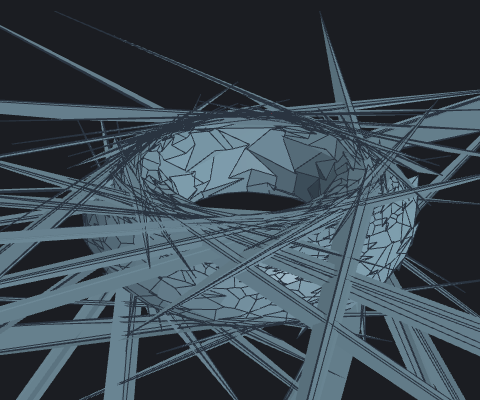
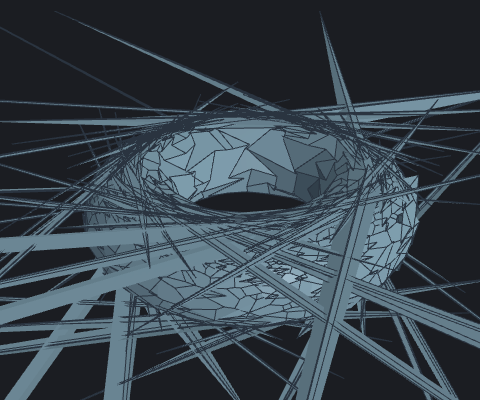
Never drop non-disc regions in Contract contour regions
Split, pinched and holed regions become faces; holes containing only steps
are erased; pieces with fewer than three junctions collapse to their shared
edge. Welding no longer leaves repeated corners, which caused most of the
holes. The viewer ear-clips faces in their plane. 0 hole edges in all 20
test runs, same maximum error.

Fixes 4b81683

Claude-Session: https://claude.ai/code/session_0141VCMnjcxwTaN2T5U2UNtN

diff --git a/recover.js b/recover.js
@@ -58,7 +58,7 @@
   // sites, signs, owner, cells: as in the viewer (cells from computePowerDiagram).
   // planes: owner -> { point, normal } (the tangent point and the unit SDF gradient).
   // lambda: pull toward the contour vertex; keeps nearly parallel planes well-posed.
-  // Returns { verts, anchors, vertOwners, polys: [{ owner, normal, verts }], badOwners, nRegions }.
+  // Returns { verts, anchors, vertOwners, polys: [{ owner, normal, verts, holes }], badOwners, nRegions, topo }.
   function recoverSurface(sites, signs, owner, cells, planes, lambda, tau = 0, trust = Infinity) {
     // 1. Contour faces (oriented from the + side), welded, each labeled with the owning region.
     const welder = makeWelder(), faces = [];
@@ -76,7 +76,10 @@
         }
         const alt = label === a ? b : a;
         if (!planes.get(label)) continue; // a sample on the surface has no tangent plane
-        faces.push({ label, alt: planes.get(alt) ? alt : label, green: a === b, vs: f.verts.map(p => welder.id(p)) });
+        // Welding can merge consecutive corners of a tiny face: drop the repeats (a u -> u edge breaks boundary walks).
+        const vs = f.verts.map(p => welder.id(p)).filter((u, k, w) => u !== w[(k + 1) % w.length]);
+        if (vs.length < 3) continue;
+        faces.push({ label, alt: planes.get(alt) ? alt : label, green: a === b, vs });
       }
     });
 
@@ -139,14 +142,85 @@
       if (!changed) break;
     }
 
-    const vLabels = welder.pts.map(() => new Set());
-    for (const F of faces) for (const u of F.vs) vLabels[u].add(F.label);
+    // 4. Topology. Every region must become faces: dropping one leaves a hole in the surface. For each
+    //    connected piece of a region, take its boundary cycles. The largest (by area in the region's
+    //    tangent plane) is the outer boundary; cycles of the same orientation are lobes pinched to it at
+    //    a vertex; cycles of the opposite orientation are holes. A hole with no own face inside contains
+    //    only steps, so it is erased (given to the region). Repeat until stable. A piece with fewer
+    //    than three junctions has no corners of its own and collapses: its one or two neighbors already
+    //    share the edge between its junctions, so dropping it leaves no hole.
+    const topo = { split0, erasedHoles: 0, collapsed: 0, pieces: 0, splitRegions: 0, pinched: 0, annuli: 0, multiArc: 0, junction4: 0 };
+    const pts = welder.pts;
+    function cycleArea(cyc, n) {
+      const a = [0, 0, 0];
+      cyc.forEach((u, k) => { const p = pts[u], q = pts[cyc[(k + 1) % cyc.length]];
+        a[0] += p[1] * q[2] - p[2] * q[1]; a[1] += p[2] * q[0] - p[0] * q[2]; a[2] += p[0] * q[1] - p[1] * q[0]; });
+      return (a[0] * n[0] + a[1] * n[1] + a[2] * n[2]) / 2;
+    }
+    let pieces, comp, vLabels;
+    function analyze() {
+      vLabels = pts.map(() => new Set());
+      for (const F of faces) for (const u of F.vs) vLabels[u].add(F.label);
+      comp = new Int32Array(faces.length).fill(-1); pieces = [];
+      faces.forEach((F, fi) => {
+        if (comp[fi] >= 0) return;
+        const P = { label: F.label, faces: [fi] }; comp[fi] = pieces.length;
+        for (let q = 0; q < P.faces.length; q++) for (const g of nbrs[P.faces[q]]) if (comp[g] < 0 && faces[g].label === F.label) { comp[g] = pieces.length; P.faces.push(g); }
+        pieces.push(P);
+      });
+      pieces.forEach((P, pi) => {
+        const out = new Map(); P.across = new Map(); // boundary half-edges u -> [v]; "u,v" -> face across
+        for (const fi of P.faces) {
+          const vs = faces[fi].vs;
+          vs.forEach((u, k) => {
+            const v = vs[(k + 1) % vs.length], tw = heFace.get(`${v},${u}`);
+            if (tw !== undefined && comp[tw] === pi) return;
+            if (!out.has(u)) out.set(u, []);
+            out.get(u).push(v); P.across.set(`${u},${v}`, tw);
+          });
+        }
+        P.pinched = [...out.values()].some(vs => vs.length > 1);
+        const cycles = [];
+        for (const [u0, vs0] of out) while (vs0.length) {
+          const cyc = []; let u = u0;
+          do { cyc.push(u); u = out.get(u)?.pop(); } while (u !== undefined && u !== u0);
+          if (u === u0) cycles.push(cyc);
+        }
+        const n = planes.get(P.label).normal, areas = cycles.map(c => cycleArea(c, n));
+        const o = areas.reduce((b, a, k) => Math.abs(a) > Math.abs(areas[b]) ? k : b, 0), sg = Math.sign(areas[o]);
+        P.outer = cycles[o] || []; P.holes = []; P.extra = [];
+        cycles.forEach((c, k) => {
+          if (k === o) return;
+          if (Math.sign(areas[k]) !== sg) { P.holes.push(c); return; }
+          const i = P.outer.findIndex(u => c.includes(u)); // splice a lobe in at a shared vertex
+          if (i < 0) { P.extra.push(c); return; }
+          const j = c.indexOf(P.outer[i]);
+          P.outer = [...P.outer.slice(0, i + 1), ...c.slice(j + 1), ...c.slice(0, j + 1), ...P.outer.slice(i + 1)];
+        });
+      });
+    }
+    for (let iter = 0; iter < 8; iter++) {
+      analyze();
+      let changed = false;
+      pieces.forEach((P, pi) => {
+        for (const h of P.holes) {
+          const seen = new Set(), st = [];
+          h.forEach((u, k) => { const f = P.across.get(`${u},${h[(k + 1) % h.length]}`); if (f !== undefined && !seen.has(f)) { seen.add(f); st.push(f); } });
+          while (st.length) for (const g of nbrs[st.pop()]) if (comp[g] !== pi && !seen.has(g)) { seen.add(g); st.push(g); }
+          if (seen.size > faces.length / 2 || [...seen].some(f => faces[f].green)) continue;
+          for (const f of seen) faces[f].label = P.label;
+          topo.erasedHoles++; changed = true;
+        }
+      });
+      if (!changed) break;
+    }
 
-    // 4. Output vertices: contour vertices where >= 3 regions meet, placed where their planes meet.
-    const outId = new Int32Array(welder.pts.length).fill(-1), verts = [], anchors = [], vertOwners = [];
+    // 5. Output vertices: contour vertices where >= 3 regions meet, placed where those regions' tangent planes meet.
+    const outId = new Int32Array(pts.length).fill(-1), verts = [], anchors = [], vertOwners = [];
     vLabels.forEach((ls, k) => {
       if (ls.size < 3) return;
-      const v = welder.pts[k];
+      if (ls.size >= 4) topo.junction4++;
+      const v = pts[k];
       // tau: exact plane intersection, truncated where the planes are dependent (qefTruncated);
       // otherwise Tikhonov regularization toward the contour vertex with weight lambda.
       const reg = tau ? 0 : lambda;
@@ -162,46 +236,29 @@
       outId[k] = verts.length; verts.push(x); anchors.push(v); vertOwners.push([...ls]);
     });
 
-    // 5. Boundary of each region: half-edges whose twin belongs to another region (or is missing).
-    const bnext = new Map(); // label -> Map(u -> [v, ...])
-    faces.forEach((F, fi) => {
-      for (let k = 0; k < F.vs.length; k++) {
-        const u = F.vs[k], v = F.vs[(k + 1) % F.vs.length], tw = heFace.get(`${v},${u}`);
-        if (tw !== undefined && faces[tw].label === F.label) continue;
-        if (!bnext.has(F.label)) bnext.set(F.label, new Map());
-        const m = bnext.get(F.label);
-        if (!m.has(u)) m.set(u, []);
-        m.get(u).push(v);
+    // 6. Faces: one per piece (several for a split region), keeping the output vertices on its
+    //    boundary; holes that contain own faces stay as holes of the face (an annulus).
+    //    Contour faces are oriented from + to −; reverse so faces face the + (outside) side.
+    const polys = [], badOwners = [], ring = c => c.map(k => outId[k]).filter(k => k >= 0).reverse();
+    const perLabel = new Map();
+    for (const P of pieces) {
+      perLabel.set(P.label, (perLabel.get(P.label) || 0) + 1);
+      const normal = planes.get(P.label).normal;
+      for (const c of [P.outer, ...P.extra]) {
+        const R = ring(c);
+        if (R.length < 3) { topo.collapsed++; continue; }
+        const holes = c === P.outer ? P.holes.map(ring).filter(H => H.length >= 3) : [];
+        if (holes.length) topo.annuli++;
+        if (P.pinched) topo.pinched++;
+        // A neighbor met along two separate arcs: the two faces share two edges.
+        const runs = c.map((u, k) => { const f = P.across.get(`${u},${c[(k + 1) % c.length]}`); return f === undefined ? -1 : faces[f].label; }), seen = new Set();
+        runs.forEach((l, k) => { if (l !== runs[(k + runs.length - 1) % runs.length]) { if (seen.has(l)) topo.multiArc++; seen.add(l); } });
+        polys.push({ owner: P.label, normal, verts: R, holes });
       }
-    });
-
-    // 6. One polygon per region: walk its boundary loop, keeping the output vertices on it.
-    //    A region that is not a disc (several loops, or a vertex visited twice) is reported instead.
-    //    topo classifies the regions that are not discs, for diagnosis (RECOVERY.md).
-    const polys = [], badOwners = [], comps = components();
-    const topo = { split0, disconnected: 0, annulus: 0, pinched: 0, fewVerts: 0, multiArc: 0, junction4: vLabels.filter(ls => ls.size >= 4).length };
-    const twinLabel = new Map(); // "u,v" boundary half-edge -> label across it
-    faces.forEach(F => F.vs.forEach((u, k) => { const v = F.vs[(k + 1) % F.vs.length], tw = heFace.get(`${v},${u}`); twinLabel.set(`${u},${v}`, tw === undefined ? -1 : faces[tw].label); }));
-    for (const [label, m] of bnext) {
-      let pinched = false;
-      for (const vs of m.values()) if (vs.length > 1) pinched = true;
-      const [start] = m.keys(), loop = [];
-      let u = start, steps = 0;
-      do { loop.push(u); u = m.get(u)?.[0]; steps++; } while (u !== undefined && u !== start && steps <= m.size);
-      if (pinched || u !== start || steps !== m.size) {
-        badOwners.push(label);
-        if (comps.get(label) > 1) topo.disconnected++; else if (pinched) topo.pinched++; else topo.annulus++;
-        continue;
-      }
-      // A neighbor met along two separate arcs of the loop: the two faces would share two edges.
-      const runs = loop.map((k, i) => twinLabel.get(`${k},${loop[(i + 1) % loop.length]}`)), seen = new Set();
-      runs.forEach((l, i) => { if (l !== runs[(i + runs.length - 1) % runs.length]) { if (seen.has(l)) topo.multiArc++; seen.add(l); } });
-      const ring = loop.map(k => outId[k]).filter(k => k >= 0);
-      if (ring.length < 3) { badOwners.push(label); topo.fewVerts++; continue; }
-      // Contour faces are oriented from + to −; flip so polygons face the + (outside) side.
-      polys.push({ owner: label, normal: planes.get(label).normal, verts: ring.reverse() });
     }
-    return { verts, anchors, vertOwners, polys, badOwners, nRegions: bnext.size, topo };
+    topo.pieces = pieces.length;
+    topo.splitRegions = [...perLabel.values()].filter(n => n > 1).length;
+    return { verts, anchors, vertOwners, polys, badOwners, nRegions: perLabel.size, topo };
   }
 
   // ---------- Extended own faces ----------

diff --git a/index.html b/index.html
@@ -488,6 +488,16 @@ function buildSurface() {
 }
 
 // Opaque, so it needs no sorting against the transparent mesh: it is drawn first and writes depth.
+// Triangulate a face given as vertex ids (outer loop and hole loops) in the plane with normal n.
+// Returns triangles as triples of vertex ids.
+function triangulateFace(outer, holes, n) {
+  const N = new THREE.Vector3(...n), U = new THREE.Vector3(Math.abs(n[0]) < 0.9 ? 1 : 0, Math.abs(n[0]) < 0.9 ? 0 : 1, 0).cross(N).normalize(), W = N.clone().cross(U);
+  const to2 = k => { const p = new THREE.Vector3(...data.recovered.verts[k]), v = new THREE.Vector2(p.dot(U), p.dot(W)); v.id = k; return v; };
+  const C = outer.map(to2), H = holes.map(h => h.map(to2));
+  const tris = THREE.ShapeUtils.triangulateShape(C, H), all = [...C, ...H.flat()]; // indexes the (possibly reordered) inputs
+  return tris.map(t => t.map(i => all[i].id));
+}
+
 function buildRecovered() {
   disposeGroup(groups.recovered);
   groups.recovered = null;
@@ -504,15 +514,17 @@ function buildRecovered() {
       for (let k = 0; k < V.length; k++) epos.push(...V[k], ...V[(k + 1) % V.length]);
     }
   } else for (const P of r.polys) {
-    const V = P.verts.map(k => r.verts[k]);
-    for (let k = 1; k + 1 < V.length; k++) { pos.push(...V[0], ...V[k], ...V[k + 1]); for (let q = 0; q < 3; q++) col.push(COL_REC.r, COL_REC.g, COL_REC.b); }
-    for (let k = 0; k < V.length; k++) epos.push(...V[k], ...V[(k + 1) % V.length]);
+    // Faces may be non-convex, pinched (a vertex visited twice) or have holes: ear-clip in their plane.
+    for (const t of triangulateFace(P.verts, P.holes || [], P.normal)) {
+      for (const k of t) { pos.push(...r.verts[k]); col.push(COL_REC.r, COL_REC.g, COL_REC.b); }
+    }
+    for (const L of [P.verts, ...(P.holes || [])]) for (let k = 0; k < L.length; k++) epos.push(...r.verts[L[k]], ...r.verts[L[(k + 1) % L.length]]);
   }
   // Holes: a directed polygon edge whose reverse is in no polygon borders a missing region.
-  const dir = new Set();
-  if (!r.clip) for (const P of r.polys) P.verts.forEach((a, k) => dir.add(`${a},${P.verts[(k + 1) % P.verts.length]}`));
-  if (!r.clip) for (const P of r.polys) P.verts.forEach((a, k) => {
-    const b = P.verts[(k + 1) % P.verts.length];
+  const loops = r.clip ? [] : r.polys.flatMap(P => [P.verts, ...(P.holes || [])]), dir = new Set();
+  for (const L of loops) L.forEach((a, k) => dir.add(`${a},${L[(k + 1) % L.length]}`));
+  for (const L of loops) L.forEach((a, k) => {
+    const b = L[(k + 1) % L.length];
     if (!dir.has(`${b},${a}`)) hole.push(...r.verts[a], ...r.verts[b]);
   });
   r.nHoleEdges = hole.length / 6;
@@ -577,8 +589,15 @@ function updateStats() {
       : data.recovered.clip ? `clipped planes: ${data.recovered.polys.length} faces, ${data.recovered.nEmpty} clipped away ` +
         `(${data.recovered.nEmptyFeature} at corners / creases)\n`
       : `recovered: ${data.recovered.polys.length} faces, ${data.recovered.verts.length} vertices, ` +
-        `${data.recovered.badOwners.length} non-disc regions, ${data.recovered.nHoleEdges} hole edges\n`) +
+        `${data.recovered.nHoleEdges} hole edges\n` + recTopo(data.recovered.topo)) +
     `power diagram: ${data.ms.toFixed(0)} ms`;
+}
+
+function recTopo(t) {
+  if (!t) return '';
+  const parts = [[t.splitRegions, 'split regions'], [t.annuli, 'faces with holes'], [t.pinched, 'pinched faces'], [t.erasedHoles, 'step-only holes erased'],
+    [t.collapsed, 'regions with < 3 corners collapsed'], [t.multiArc, 'face pairs sharing 2+ edges']].filter(([n]) => n);
+  return parts.length ? `topology: ${parts.map(([n, l]) => `${n} ${l}`).join(', ')}\n` : '';
 }
 
 // ---------- Help pop-ups ----------

diff --git a/RECOVERY.md b/RECOVERY.md
@@ -71,12 +71,12 @@ By (1), the own face of every tangent point is unchanged for every `s`; only the
 
 Each step is given to one of its two owners, so the contour is partitioned into one region per tangent point.
 
-1. Weld the contour's vertices (each cell computes its own copy). Label each own face with its owner. Label each step with whichever of its two owners has the nearer tangent point (measured from the face's centroid).
+1. Weld the contour's vertices (each cell computes its own copy; repeated corners of tiny faces are dropped). Label each own face with its owner. Label each step with whichever of its two owners has the nearer tangent point (measured from the face's centroid).
 2. Clean up so each region is one connected piece containing its own face. A stray component goes to its other owner, or else to its most common neighboring region. A region enclosed by a single other region is merged into it.
 3. Output vertices: contour vertices where three or more regions meet, placed where those regions' tangent planes meet (see *Vertex placement*).
-4. Output faces: each region's boundary loop on the contour, keeping only the output vertices on it. A region whose boundary is not one simple loop, or has fewer than three output vertices, leaves a hole (reported as a non-disc region).
+4. Output faces: each region's boundary on the contour, keeping only the output vertices on it. Regions that are not discs still become faces (see *Topology of the regions*), so no region is dropped.
 
-Because the regions tile the contour, neighboring faces share their boundary and vertices by construction, so cracks only appear at non-disc regions. The nearest-tangent-point rule already imposes Voronoi locality on the regions, which is why this method depends little on `s`.
+Because the regions tile the contour, neighboring faces share their boundary and vertices by construction, so the result is closed. The nearest-tangent-point rule already imposes Voronoi locality on the regions, which is why this method depends little on `s`.
 
 ![Left: the contour at s = 0.1 colored by region, one color per tangent point. Right: the recovered polygon, with vertices where neighboring regions' tangent lines meet, follows the true curve including both creases.](figures/fig-contract.svg)
 
@@ -101,27 +101,37 @@ Cracks are therefore an artifact of reading neighbors locally, not of the topolo
 
 ## Topology of the regions
 
-The contour is a closed 2-manifold, so the regions of Contract contour regions tile it, and contracting each region to one face is well defined. The result is a polygon mesh with one simple face per tangent point exactly when every region is a disc. Otherwise the code currently drops the region, which leaves a hole (the "non-disc regions" in the stats). Measured with `topo` in `recoverSurface`'s result (exact `tau`, trust 2, seed 1):
+The contour is a closed 2-manifold, so the regions of Contract contour regions tile it, and contracting each region is well defined. Leaving a hole is never necessary. Each connected piece of a region is handled by its boundary cycles, taken in the region's tangent plane: the largest is the outer boundary, cycles of the same orientation are lobes pinched to it at a vertex, and cycles of the opposite orientation are holes.
 
-| shape, sampling | n | s | split before cleanup | non-disc after cleanup: disconnected / annulus / pinched / < 3 vertices | pairs meeting along 2+ arcs | junctions of 4+ regions |
-|---|---|---|---|---|---|---|
-| torus, uniform | 300 | 1 / 0.1 | 0 / 0 | 0 / 0 | 0 / 0 | 0 / 0 |
-| torus, uniform | 1500 | 1 / 0.1 | 4 / 1 | 0 / 2 (pinched) | 0 / 0 | 0 / 0 |
-| two spheres, uniform | 300 | 1 / 0.1 | 1 / 0 | 1 (pinched) / 0 | 0 / 0 | 0 / 0 |
-| two spheres, uniform | 1500 | 1 / 0.1 | 4 / 5 | 0 / 0 | 0 / 0 | 0 / 0 |
-| box, uniform | 300 | 1 / 0.1 | 12 / 13 | 10 (0/0/4/6) / 3 (0/0/2/1) | 17 / 8 | 8 / 8 |
-| box, uniform | 1500 | 1 / 0.1 | 18 / 15 | 7 (0/0/2/5) / 7 (0/1/2/4) | 4 / 0 | 8 / 8 |
-| torus, near surface | 1500 | 1 / 0.1 | 1 / 3 | 0 / 0 | 0 / 2 | 0 / 0 |
-| two spheres, near surface | 300 | 1 / 0.1 | 3 / 8 | 0 / 11 (7/3/1/0) | 0 / 0 | 0 / 1 |
-| two spheres, near surface | 1500 | 1 / 0.1 | 8 / 6 | 1 (0/0/0/1) / 5 (2/1/2/0) | 2 / 0 | 0 / 0 |
-
-So non-disc regions are rare on smooth surfaces (0–2 of 300–1500) and concentrate at sharp features: the box's 8 corners are exactly its 8 junctions of 4+ regions (three faces' worth of planes meet there, and the regions near a corner pinch or are left with fewer than three junctions), and the dense two-sphere crease has disconnected regions that the cleanup could not fix. Each kind has a topologically valid output instead of a hole:
-
-- *Disconnected*: split into one face per piece, each in the same tangent plane.
-- *Annulus* (the region surrounds other regions): a face with a hole, in its tangent plane.
-- *Pinched* (the boundary touches itself at a vertex): a weakly simple polygon that visits that vertex twice.
-- *Fewer than three junctions* (a region with only one or two neighbors): it has no corner of its own; merge it into a neighbor.
+- *Split* (the region has several pieces): one face per piece, all in the same tangent plane.
+- *Pinched* (the boundary touches itself at a vertex): one weakly simple polygon that visits that vertex twice.
+- *Hole with only steps inside* (no own face): erased; the steps are given to the region.
+- *Hole with own faces inside* (an annulus): a face with a hole. The faces inside meet the annulus face at the junctions on the hole's boundary, so they attach to the annulus's tangent plane.
+- *Fewer than three junctions*: the piece has no corners of its own. Its one or two neighbors already share the edge between its junctions, so it collapses to that edge, which leaves no hole. (Merging it into a neighbor instead cascaded and made faces far larger than their tangent points' neighborhoods.)
 - *Two neighbors meeting along two arcs*: two edges between the same two faces, both on the line `P_a ∩ P_b`.
+
+The viewer triangulates faces by ear clipping in their plane, which handles non-convex, pinched and holed faces, and reports these cases under "topology" in the stats. Measured with `topo` in `recoverSurface`'s result (exact `tau`, trust 2, seed 1); "before" is the previous code, which dropped every non-disc region:
+
+| shape, sampling | n | s | hole edges before → now | max error | pinched / holes erased / collapsed / pairs sharing 2+ edges |
+|---|---|---|---|---|---|
+| torus, uniform | 1500 | 0.1 | 8 → 0 | 0.076 | 0 / 0 / 0 / 0 |
+| two spheres, uniform | 300 | 1 | 14 → 0 | 0.084 | 0 / 0 / 0 / 0 |
+| box, uniform | 300 | 1 | 18 → 0 | exact | 1 / 0 / 8 / 19 |
+| box, uniform | 1500 | 1 | 11 → 0 | exact | 1 / 8 / 6 / 4 |
+| box, uniform | 1500 | 0.1 | 14 → 0 | exact | 0 / 0 / 6 / 0 |
+| two spheres, near surface | 300 | 0.1 | 51 → 0 | 0.090 | 0 / 0 / 0 / 0 |
+| two spheres, near surface | 1500 | 0.1 | 20 → 0 | 0.056 | 0 / 0 / 0 / 0 |
+
+All 20 runs (torus, two spheres and box; uniform and near-surface; 300 and 1500 samples; `s = 1` and `0.1`) now have 0 hole edges, with the same maximum error as before. Most of the old non-disc regions were not topological at all: welding merged two consecutive corners of a tiny contour face, and the resulting `u → u` boundary edge broke the boundary walk. With that fixed, the remaining cases are at the box's corners and edges. No annulus occurred in any run, so that path is untested on real data.
+
+### Ideas: contracting a patch of steps directly
+
+Think of the steps as patches. The boundary of a connected patch is an edge loop, and each edge separates a step from an own face `a_i` outside the patch. Removing the patch means joining the planes `P_{a_1}, …, P_{a_k}` around the loop.
+
+- *The loop polygon.* Intersect consecutive outside planes pairwise: the lines `P_{a_i} ∩ P_{a_{i+1}}`, consecutive lines meeting at `P_{a_{i−1}} ∩ P_{a_i} ∩ P_{a_{i+1}}`. For `k = 3` this is one point, a clean vertex. For `k > 3` it is a small skew polygon in no tangent plane, likely badly shaped.
+- *Triangulate the loop in the dual instead.* A triangulation of the `k`-gon of own faces has `k − 2` triangles, each a vertex `P_a ∩ P_b ∩ P_c`, and its diagonals are the pairs of own faces that become adjacent across the patch. The hole then closes with no extra face and every face stays in a tangent plane. The choice of triangulation is the real decision. Contract contour regions makes it implicitly, by nearest tangent point (Delaunay-like on the tangent points).
+- *Choose it from the planes.* Locally, write the planes as heights over the patch. Where the surface is convex, it should be the upper envelope of the planes (the boundary of the intersection of the half-spaces `f_a ≤ 0`); where concave, the lower envelope. The envelope of affine functions is itself a 2D power diagram (equivalently, by polar duality, a convex hull of the planes' dual points), so its dual is a regular triangulation of the planes. This is the "change of generators": the triangulation of each patch comes from a regular triangulation in plane space, not from the samples. It would also address the mismatch between the contour's adjacency and the plane arrangement behind the far torus vertices, because envelope vertices lie on the envelope over the patch. Saddles are neither envelope; there a minimum-weight triangulation of the `k`-gon by dynamic programming (`O(k³)`), with a cost such as the distance of each triple point from the patch, is a fallback.
+- *An annulus of steps.* If the patch is a ring with own faces inside its hole, it has two boundary loops, `a_1 … a_k` outside and `b_1 … b_m` inside. Joining them is the classic problem of tiling between two contours (Fuchs, Kedem and Uselton 1977): every triangle uses two consecutive faces of one loop and one of the other, and an optimal tiling is found by dynamic programming in `O(km)` with the same costs. If the annulus is an own region rather than steps, it stays a face with a hole, as above.
 
 ## Vertex placement (`qefTruncated`)
 
@@ -235,6 +245,6 @@ Before the trust region: 1500 samples, `s = 0.1`, `tau = 10⁻²` (see *Results 
 
 ## Open problems
 
-- Non-disc regions (partition) and cracks (extension) at sparse sampling.
+- Cracks in Extend own faces, whose neighbors are read locally (see the 2D figure); the chain rule is global, but its 3D form needs a triangulation of each step patch (see *Ideas*).
 - Where the contour's adjacency does not match the plane arrangement, the trust region keeps vertices near the surface, but their faces are then no longer exactly planar.
 - The absolute tolerance in `powerdiagram.js` limits how small `s` can be.
